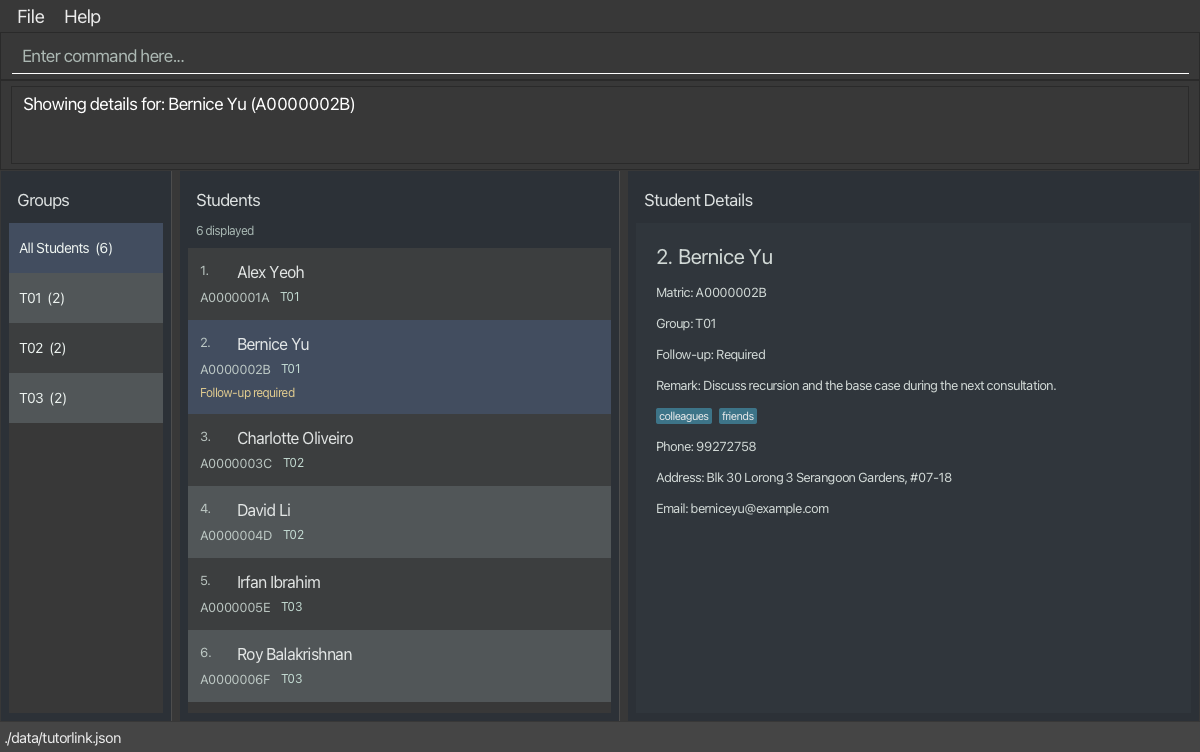
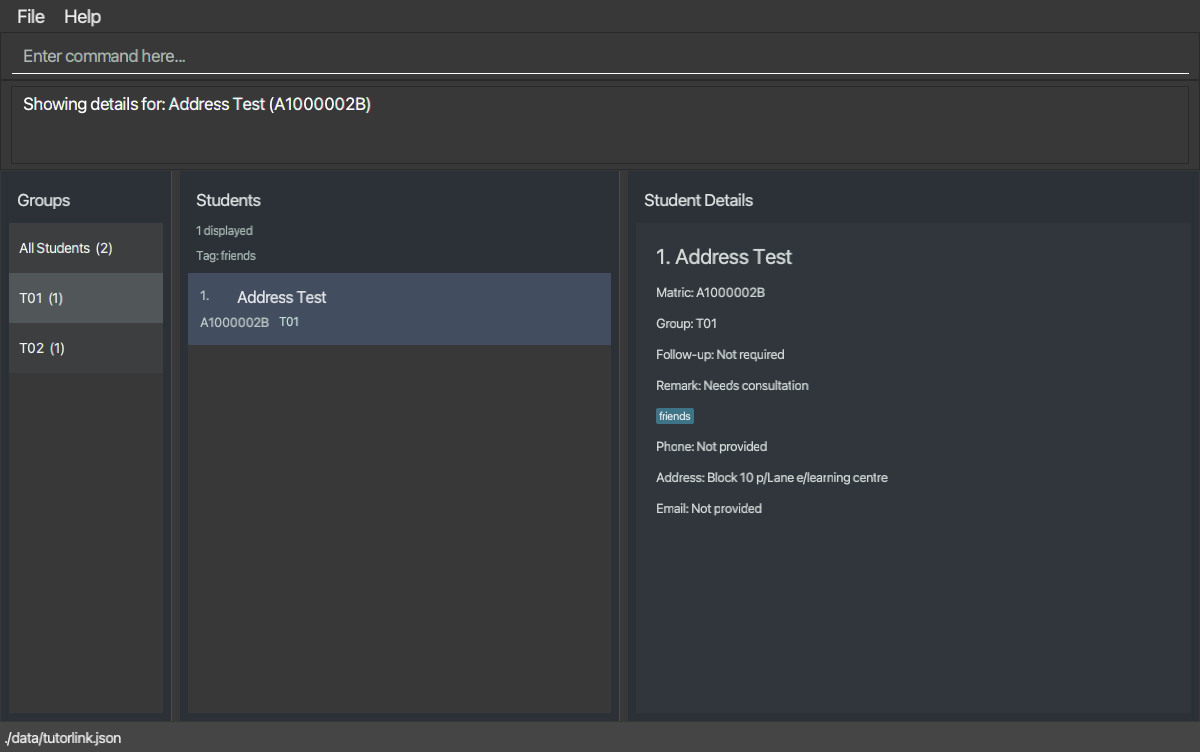
Address peer alpha feedback on search visibility and input guidance

diff --git a/.github/PackagedSmoke.java b/.github/PackagedSmoke.java
@@ -44,7 +44,9 @@ public class PackagedSmoke {
                     Stage stage = (Stage) Window.getWindows().stream().filter(w -> w instanceof Stage
                             && ((Stage) w).getTitle().equals("TutorLink")).findFirst().orElseThrow();
                     scene = stage.getScene();
-                    if (phase.startsWith("alpha-")) {
+                    if (phase.equals("peer-alpha")) {
+                        peerAlphaWorkflow();
+                    } else if (phase.startsWith("alpha-")) {
                         alphaFixWorkflow(phase);
                     } else if (phase.startsWith("followup-")) {
                         followUpWorkflow(phase);
@@ -205,6 +207,33 @@ public class PackagedSmoke {
             check(feedback().equals("No students require follow-up."), "completion survives process restart");
             command("list", 2, false);
         }
+    }
+
+    private static void peerAlphaWorkflow() throws Exception {
+        command("clear", 0, false);
+        command("add n/Address Test m/A1000002B g/T01 a/Block 10 \\p/Lane \\e/learning centre t/friends", 1, false);
+        check(student().getAddress().value.equals("Block 10 p/Lane e/learning centre"), "literal address prefixes");
+        command("add n/Punycode Test m/A1000007G g/T02 e/user@xn--bcher-kva.de", 2, false);
+        String saved = data();
+        command("add n/Domain Test m/A1000006F g/T01 e/user@" + "a".repeat(64) + ".com", 2, true);
+        check(data().equals(saved), "oversized domain label does not add a student");
+        command("findtag friends", 1, false);
+        command("remark 1 r/Needs consultation", 1, false);
+        command("sort name desc", 1, false);
+        check(((Label) scene.lookup("#activeFilter")).getText().equals("Tag: friends"), "persistent tag condition");
+        command("view 1", 1, false);
+        snapshot(scene, "activeSearchCondition.png");
+        command("findtag t/friends", 1, true);
+        check(feedback().contains("without t/") && feedback().contains("findtag needsHelp"), "corrective tag guidance");
+        check(((Label) scene.lookup("#activeFilter")).getText().equals("Tag: friends"), "invalid search keeps condition");
+        command("edit 1 a/NUS \\e/learning centre p/12345678", 1, false);
+        check(student().getAddress().value.equals("NUS e/learning centre"), "escaped edit with real phone prefix");
+        command("find Nobody", 0, false);
+        command("find Absent", 0, false);
+        check(((Label) scene.lookup("#activeFilter")).getText().equals("Name or matriculation: Absent"),
+                "empty-to-empty query changes condition");
+        command("list", 2, false);
+        check(((Label) scene.lookup("#activeFilter")).getText().equals("All students"), "list clears condition");
     }
 
     private static void alphaFixWorkflow(String phase) throws Exception {

diff --git a/src/test/java/tutorlink/ui/MainWindowTest.java b/src/test/java/tutorlink/ui/MainWindowTest.java
@@ -83,6 +83,44 @@ public class MainWindowTest {
         JavaFxTestUtil.initialize();
     }
 
+    @Test
+    public void execute_searchCondition_remainsVisibleThroughUpdatesAndEmptyResults() throws Exception {
+        runOnFxThread(() -> {
+            Label filter = (Label) stage.getScene().lookup("#activeFilter");
+            window.executeCommand("findtag needsHelp");
+            window.executeCommand("remark 1 r/Consultation");
+            window.executeCommand("sort name desc");
+            window.executeCommand("delete 1");
+            assertEquals("Tag: needsHelp", filter.getText());
+            assertThrows(ParseException.class, () -> window.executeCommand("findtag t/friends"));
+            assertEquals("Tag: needsHelp", filter.getText());
+            window.executeCommand("edit 1 t/");
+            assertTrue(model.getFilteredStudentList().isEmpty());
+            assertEquals("Tag: needsHelp", filter.getText());
+            window.executeCommand("find Nobody"); // empty-to-empty filter change still updates the label
+            assertEquals("Name or matriculation: Nobody", filter.getText());
+            window.executeCommand("list g/T01");
+            assertEquals("Tutorial group: T01", filter.getText());
+            window.executeCommand("followups");
+            window.executeCommand("followup 1 done");
+            assertEquals("Follow-up required", filter.getText());
+            window.executeCommand("add n/Dana Test m/A0000004D g/T03");
+            assertEquals("All students", filter.getText());
+            assertEquals(filter.getText(), filter.getTooltip().getText());
+        });
+    }
+
+    @Test
+    public void execute_filterSaveFailure_showsTheActualChangedView() throws Exception {
+        runOnFxThread(() -> {
+            isSaveBlocked = true;
+            assertThrows(CommandException.class, () -> window.executeCommand("find Nobody"));
+            assertTrue(model.getFilteredStudentList().isEmpty());
+            Label filter = (Label) stage.getScene().lookup("#activeFilter");
+            assertEquals("Name or matriculation: Nobody", filter.getText());
+        });
+    }
+
     @BeforeEach
     public void setUp() throws Exception {
         runOnFxThread(() -> {

diff --git a/src/main/java/tutorlink/model/ModelManager.java b/src/main/java/tutorlink/model/ModelManager.java
@@ -24,6 +24,7 @@ public class ModelManager implements Model {
     private final FilteredList<Student> filteredStudents;
     private final SortedList<Student> sortedStudents;
     private StudentSortOrder sortOrder = StudentSortOrder.DIRECTORY;
+    private String filterDescription = "All students";
 
     /**
      * Initializes a ModelManager with the given studentDirectory and userPrefs.
@@ -109,6 +110,11 @@ public class ModelManager implements Model {
     }
 
     @Override
+    public String getFilterDescription() {
+        return filterDescription;
+    }
+
+    @Override
     public void sortStudents(StudentSortOrder sortOrder) {
         requireNonNull(sortOrder, "Student sort order must not be null.");
         int displayedStudentCount = sortedStudents.size();
@@ -120,11 +126,19 @@ public class ModelManager implements Model {
 
     @Override
     public void updateFilteredStudentList(Predicate<Student> predicate) {
+        updateFilteredStudentList(predicate,
+                predicate == PREDICATE_SHOW_ALL_STUDENTS ? "All students" : "Filtered students");
+    }
+
+    @Override
+    public void updateFilteredStudentList(Predicate<Student> predicate, String description) {
         requireNonNull(predicate);
+        requireNonNull(description);
         if (sortOrder != StudentSortOrder.DIRECTORY) {
             logger.fine("Resetting student sorting to directory order for a new filter.");
         }
         sortStudents(StudentSortOrder.DIRECTORY);
+        filterDescription = description;
         filteredStudents.setPredicate(predicate);
     }
 

diff --git a/src/test/java/tutorlink/logic/commands/ContactDetailsIntegrationTest.java b/src/test/java/tutorlink/logic/commands/ContactDetailsIntegrationTest.java
@@ -80,6 +80,20 @@ public class ContactDetailsIntegrationTest {
     }
 
     @Test
+    public void execute_escapedAddressPrefixes_areStoredLiterallyAndRetainOtherFields() throws Exception {
+        logic.execute("edit 1 a/Block 10 \\p/Lane \\e/learning centre \\t/Lobby p/98765432");
+        Student updated = model.getFilteredStudentList().getFirst();
+        assertEquals("Block 10 p/Lane e/learning centre t/Lobby", updated.getAddress().value);
+        assertEquals("98765432", updated.getPhone().value);
+        assertEquals(ZOE.getEmail(), updated.getEmail());
+        assertEquals(ZOE.getRemark(), updated.getRemark());
+        assertEquals(updated, storage.readStudentDirectory().orElseThrow().getStudentList().get(1));
+        logic.execute("add n/Address Test m/A0000003C g/T02 a/\\p/Lane \\n/Name \\m/Matric \\g/Group \\a/Block");
+        assertEquals("p/Lane n/Name m/Matric g/Group a/Block",
+                model.getStudentDirectory().getStudentList().get(2).getAddress().value);
+    }
+
+    @Test
     public void execute_addEmailBoundary_rejectsOversizedInputWithoutAddingStudent() throws Exception {
         logic.execute("add n/Valid Boundary m/A0000003C g/T02 e/" + "a".repeat(64) + "@example.com");
         List<Student> before = List.copyOf(model.getStudentDirectory().getStudentList());

diff --git a/src/main/java/tutorlink/ui/MainWindow.java b/src/main/java/tutorlink/ui/MainWindow.java
@@ -64,6 +64,9 @@ public class MainWindow extends UiPart<Stage> {
     private Label studentCount;
 
     @FXML
+    private Label activeFilter;
+
+    @FXML
     private SplitPane workspace;
 
     @FXML
@@ -204,6 +207,8 @@ public class MainWindow extends UiPart<Stage> {
 
     private void updateStudentCount() {
         studentCount.setText(logic.getFilteredStudentList().size() + " displayed");
+        activeFilter.setText(logic.getFilterDescription());
+        activeFilter.setTooltip(new javafx.scene.control.Tooltip(logic.getFilterDescription()));
     }
 
     private void updateDetails() {
@@ -269,6 +274,7 @@ public class MainWindow extends UiPart<Stage> {
             resultDisplay.setFeedbackToUser(e.getMessage());
             throw e;
         } finally {
+            updateStudentCount();
             if (requestedSelection != null) {
                 studentListPanel.showStudent(requestedSelection);
             } else {

diff --git a/src/main/java/tutorlink/model/Model.java b/src/main/java/tutorlink/model/Model.java
@@ -64,6 +64,9 @@ public interface Model {
     /** Returns an unmodifiable view of the filtered student list in displayed order. */
     ObservableList<Student> getFilteredStudentList();
 
+    /** Returns the human-readable condition for the current displayed list. */
+    String getFilterDescription();
+
     /**
      * Sorts the currently filtered students using {@code sortOrder}, without changing the filter or directory order.
      * The ordering remains active as students are edited or deleted.
@@ -77,4 +80,7 @@ public interface Model {
      * @throws NullPointerException if {@code predicate} is null.
      */
     void updateFilteredStudentList(Predicate<Student> predicate);
+
+    /** Updates the filter and its visible description, resetting sorting to directory order. */
+    void updateFilteredStudentList(Predicate<Student> predicate, String description);
 }

diff --git a/src/test/java/tutorlink/logic/commands/FindTagCommandIntegrationTest.java b/src/test/java/tutorlink/logic/commands/FindTagCommandIntegrationTest.java
@@ -102,7 +102,9 @@ public class FindTagCommandIntegrationTest {
     @Test
     public void execute_invalidTag_preservesPreviousResultsAndSavedDirectory() throws Exception {
         assertSearch("findtag owesMoney", List.of(BENSON));
-        for (String command : List.of("findtag t/friends", "findtag friends family", "findtag needs-help")) {
+        String prefixError = "Use the tag without t/.\n" + FindTagCommand.MESSAGE_USAGE;
+        assertThrows(ParseException.class, prefixError, () -> logic.execute("findtag t/friends"));
+        for (String command : List.of("findtag friends family", "findtag needs-help")) {
             assertThrows(ParseException.class, Tag.MESSAGE_CONSTRAINTS, () -> logic.execute(command));
         }
         assertThrows(ParseException.class,

diff --git a/src/main/java/tutorlink/logic/parser/ParserUtil.java b/src/main/java/tutorlink/logic/parser/ParserUtil.java
@@ -99,13 +99,13 @@ public class ParserUtil {
 
     /**
      * Parses a {@code String address} into an {@code Address}.
-     * Leading and trailing whitespaces will be trimmed.
+     * Trims outer whitespace and removes the escape before literal address prefixes, such as {@code \p/}.
      *
      * @throws ParseException if the given {@code address} is invalid.
      */
     public static Address parseAddress(String address) throws ParseException {
         requireNonNull(address);
-        String trimmedAddress = address.trim();
+        String trimmedAddress = address.trim().replaceAll("(^|\\s)\\\\([nmgpeat]/)", "$1$2");
         if (!Address.isValidAddress(trimmedAddress)) {
             throw new ParseException(Address.MESSAGE_CONSTRAINTS);
         }

diff --git a/.github/smoke-test.py b/.github/smoke-test.py
@@ -103,6 +103,13 @@ launch(alpha, "alpha-restart")
 alpha_restarted = json.loads((alpha / "data/tutorlink.json").read_text())["students"]
 assert alpha_restarted == [dict(alpha_saved[0], requiresFollowUp=False), alpha_saved[1]], alpha_restarted
 
+peer = work / "peer-alpha"
+launch(peer, "peer-alpha")
+peer_saved = json.loads((peer / "data/tutorlink.json").read_text())["students"]
+assert len(peer_saved) == 2 and peer_saved[0]["address"] == "NUS e/learning centre", peer_saved
+assert peer_saved[0]["phone"] == "12345678", peer_saved
+assert peer_saved[1]["email"] == "user@xn--bcher-kva.de", peer_saved
+
 for name, invalid in [("corrupt", b"{not valid JSON"),
                       ("json-null", b"null\n"),
                       ("missing-students", b'{}'),

diff --git a/src/test/java/tutorlink/logic/parser/FindTagCommandParserTest.java b/src/test/java/tutorlink/logic/parser/FindTagCommandParserTest.java
@@ -41,9 +41,14 @@ public class FindTagCommandParserTest {
 
     @Test
     public void parse_invalidTag_throwsParseException() {
-        for (String args : List.of("t/friends", "friends family", "friends\tfamily", "friends\nfamily",
+        for (String args : List.of("friends family", "friends\tfamily", "friends\nfamily",
                 "needs-help", "needs_help", "friends!", "\"friends\"", "学生")) {
             assertParseFailure(parser, args, Tag.MESSAGE_CONSTRAINTS);
         }
+    }
+
+    @Test
+    public void parse_tagPrefix_showsCorrectSyntax() {
+        assertParseFailure(parser, "t/friends", "Use the tag without t/.\n" + FindTagCommand.MESSAGE_USAGE);
     }
 }

diff --git a/src/test/java/tutorlink/logic/commands/AddCommandTest.java b/src/test/java/tutorlink/logic/commands/AddCommandTest.java
@@ -147,6 +147,16 @@ public class AddCommandTest {
         public void updateFilteredStudentList(Predicate<Student> predicate) {
             throw new AssertionError("This method should not be called.");
         }
+
+        @Override
+        public void updateFilteredStudentList(Predicate<Student> predicate, String description) {
+            throw new AssertionError("This method should not be called.");
+        }
+
+        @Override
+        public String getFilterDescription() {
+            throw new AssertionError("This method should not be called.");
+        }
     }
 
     /**

diff --git a/src/test/java/tutorlink/logic/parser/TutorLinkParserTest.java b/src/test/java/tutorlink/logic/parser/TutorLinkParserTest.java
@@ -103,7 +103,8 @@ public class TutorLinkParserTest {
         assertThrows(ParseException.class,
                 String.format(MESSAGE_INVALID_COMMAND_FORMAT, FindTagCommand.MESSAGE_USAGE), () ->
                 parser.parseCommand("findtag"));
-        assertThrows(ParseException.class, Tag.MESSAGE_CONSTRAINTS, () -> parser.parseCommand("findtag t/friends"));
+        String prefixError = "Use the tag without t/.\n" + FindTagCommand.MESSAGE_USAGE;
+        assertThrows(ParseException.class, prefixError, () -> parser.parseCommand("findtag t/friends"));
     }
 
     @Test
